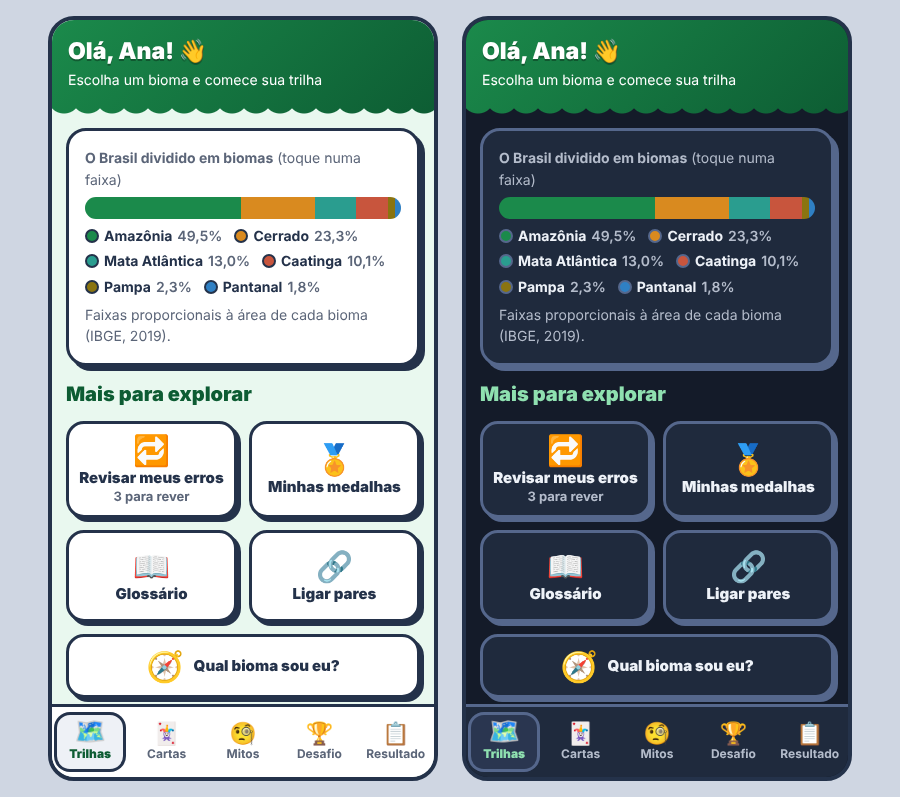
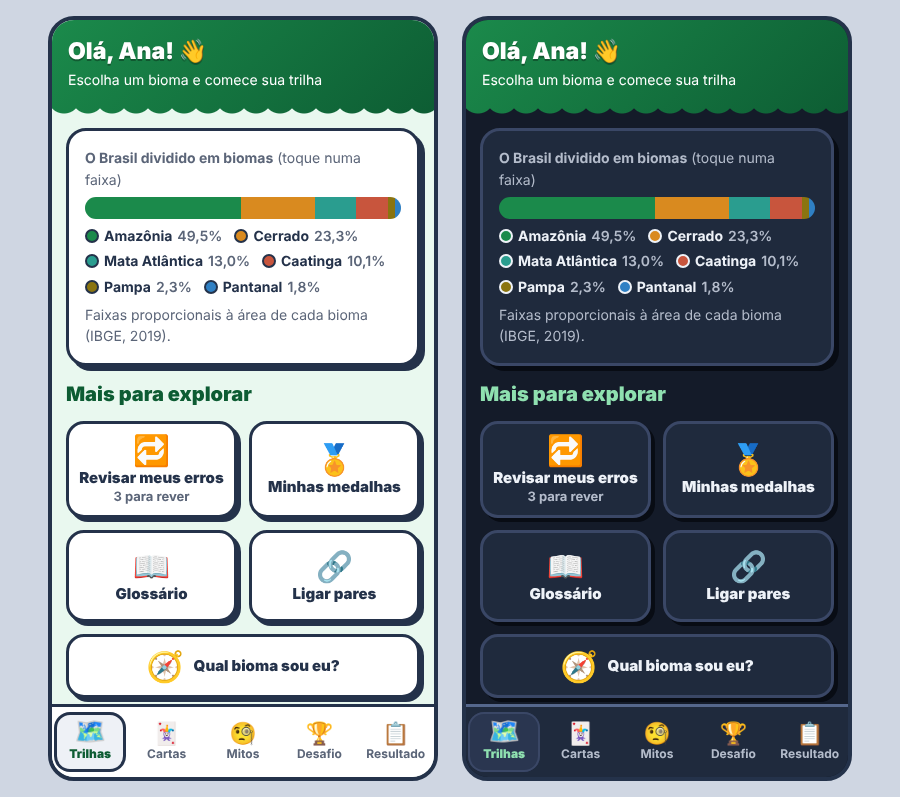
Amostra R1: contornos do modo escuro mais discretos
Claude-Session: https://claude.ai/code/session_01MsLSAgR2Wr5XeeM6v4E8wh

diff --git a/docs/amostra-visual2-r1.html b/docs/amostra-visual2-r1.html
@@ -2,7 +2,7 @@
 <link rel="stylesheet" href="../css/base.css"><link rel="stylesheet" href="../css/componentes.css"><link rel="stylesheet" href="../css/telas.css"><link rel="stylesheet" href="../css/home2.css">
 <style>body{display:flex;gap:24px;justify-content:center;flex-wrap:wrap;padding:16px;background:#cfd6e2}.fone{width:390px;border:4px solid #24324a;border-radius:26px;overflow:hidden;background:var(--c3)}
 .fone[data-theme=dark]{--ink:#eef2f8;--mut:#b4bccb;--card:#1f2a3d;--line:#55678c;--soft:#2a3650;--c3:#141b29;--tx:#8fe0b0;--lfg:#0a0f18;--dot:rgba(255,255,255,.05);color:var(--ink)}
-.tela{padding-bottom:0}h2{padding:0}</style></head><body><div class="fone" ><div class="tela">
+.tela{padding-bottom:0}.fone[data-theme=dark] .card{border-color:#3a4766;box-shadow:5px 5px 0 #080c14}h2{padding:0}</style></head><body><div class="fone" ><div class="tela">
 <header class="top"><h1>Olá, Ana! 👋</h1><div class="sub">Escolha um bioma e comece sua trilha</div></header>
 <main><div class="card"><div class="small"><b>O Brasil dividido em biomas</b> (toque numa faixa)</div><div class="landbar"><b style="width:49.5%;background:#1b8a4b"></b><b style="width:23.3%;background:#d98a1f"></b><b style="width:13.0%;background:#2a9d8f"></b><b style="width:10.1%;background:#c8553d"></b><b style="width:2.3%;background:#8a7410"></b><b style="width:1.8%;background:#2f80c4"></b></div><ul class="legenda"><li><i style="background:#1b8a4b"></i>Amazônia <span>49,5%</span></li><li><i style="background:#d98a1f"></i>Cerrado <span>23,3%</span></li><li><i style="background:#2a9d8f"></i>Mata Atlântica <span>13,0%</span></li><li><i style="background:#c8553d"></i>Caatinga <span>10,1%</span></li><li><i style="background:#8a7410"></i>Pampa <span>2,3%</span></li><li><i style="background:#2f80c4"></i>Pantanal <span>1,8%</span></li></ul><div class="small">Faixas proporcionais à área de cada bioma (IBGE, 2019).</div></div>
 <h2>Mais para explorar</h2><div class="atalhos"><button class="atalho"><span class="ic">🔁</span><span>Revisar meus erros<br><small>3 para rever</small></span></button><button class="atalho"><span class="ic">🏅</span><span>Minhas medalhas</span></button><button class="atalho"><span class="ic">📖</span><span>Glossário</span></button><button class="atalho"><span class="ic">🔗</span><span>Ligar pares</span></button><button class="atalho"><span class="ic">🧭</span><span>Qual bioma sou eu?</span></button></div></main>

diff --git a/css/home2.css b/css/home2.css
@@ -12,3 +12,8 @@ nav.tabs button.on{background:var(--soft);border-radius:16px;box-shadow:inset 0 
 .legenda li{display:flex;align-items:center;gap:5px;cursor:pointer}
 .legenda i{width:14px;height:14px;border-radius:50%;border:2px solid var(--line);flex:none}
 .legenda span{color:var(--mut);font-weight:600}
+/* Escuro: contorno mais discreto e sombra escura (em vez de bloco azul-claro) */
+[data-theme="dark"] .atalho{border-color:#3a4766;box-shadow:4px 4px 0 #080c14}
+[data-theme="dark"] .atalho:active{box-shadow:1px 1px 0 #080c14}
+[data-theme="dark"] nav.tabs button.on{box-shadow:inset 0 0 0 2px #3a4766}
+[data-theme="dark"] .legenda i{border-color:#eef2f8}
